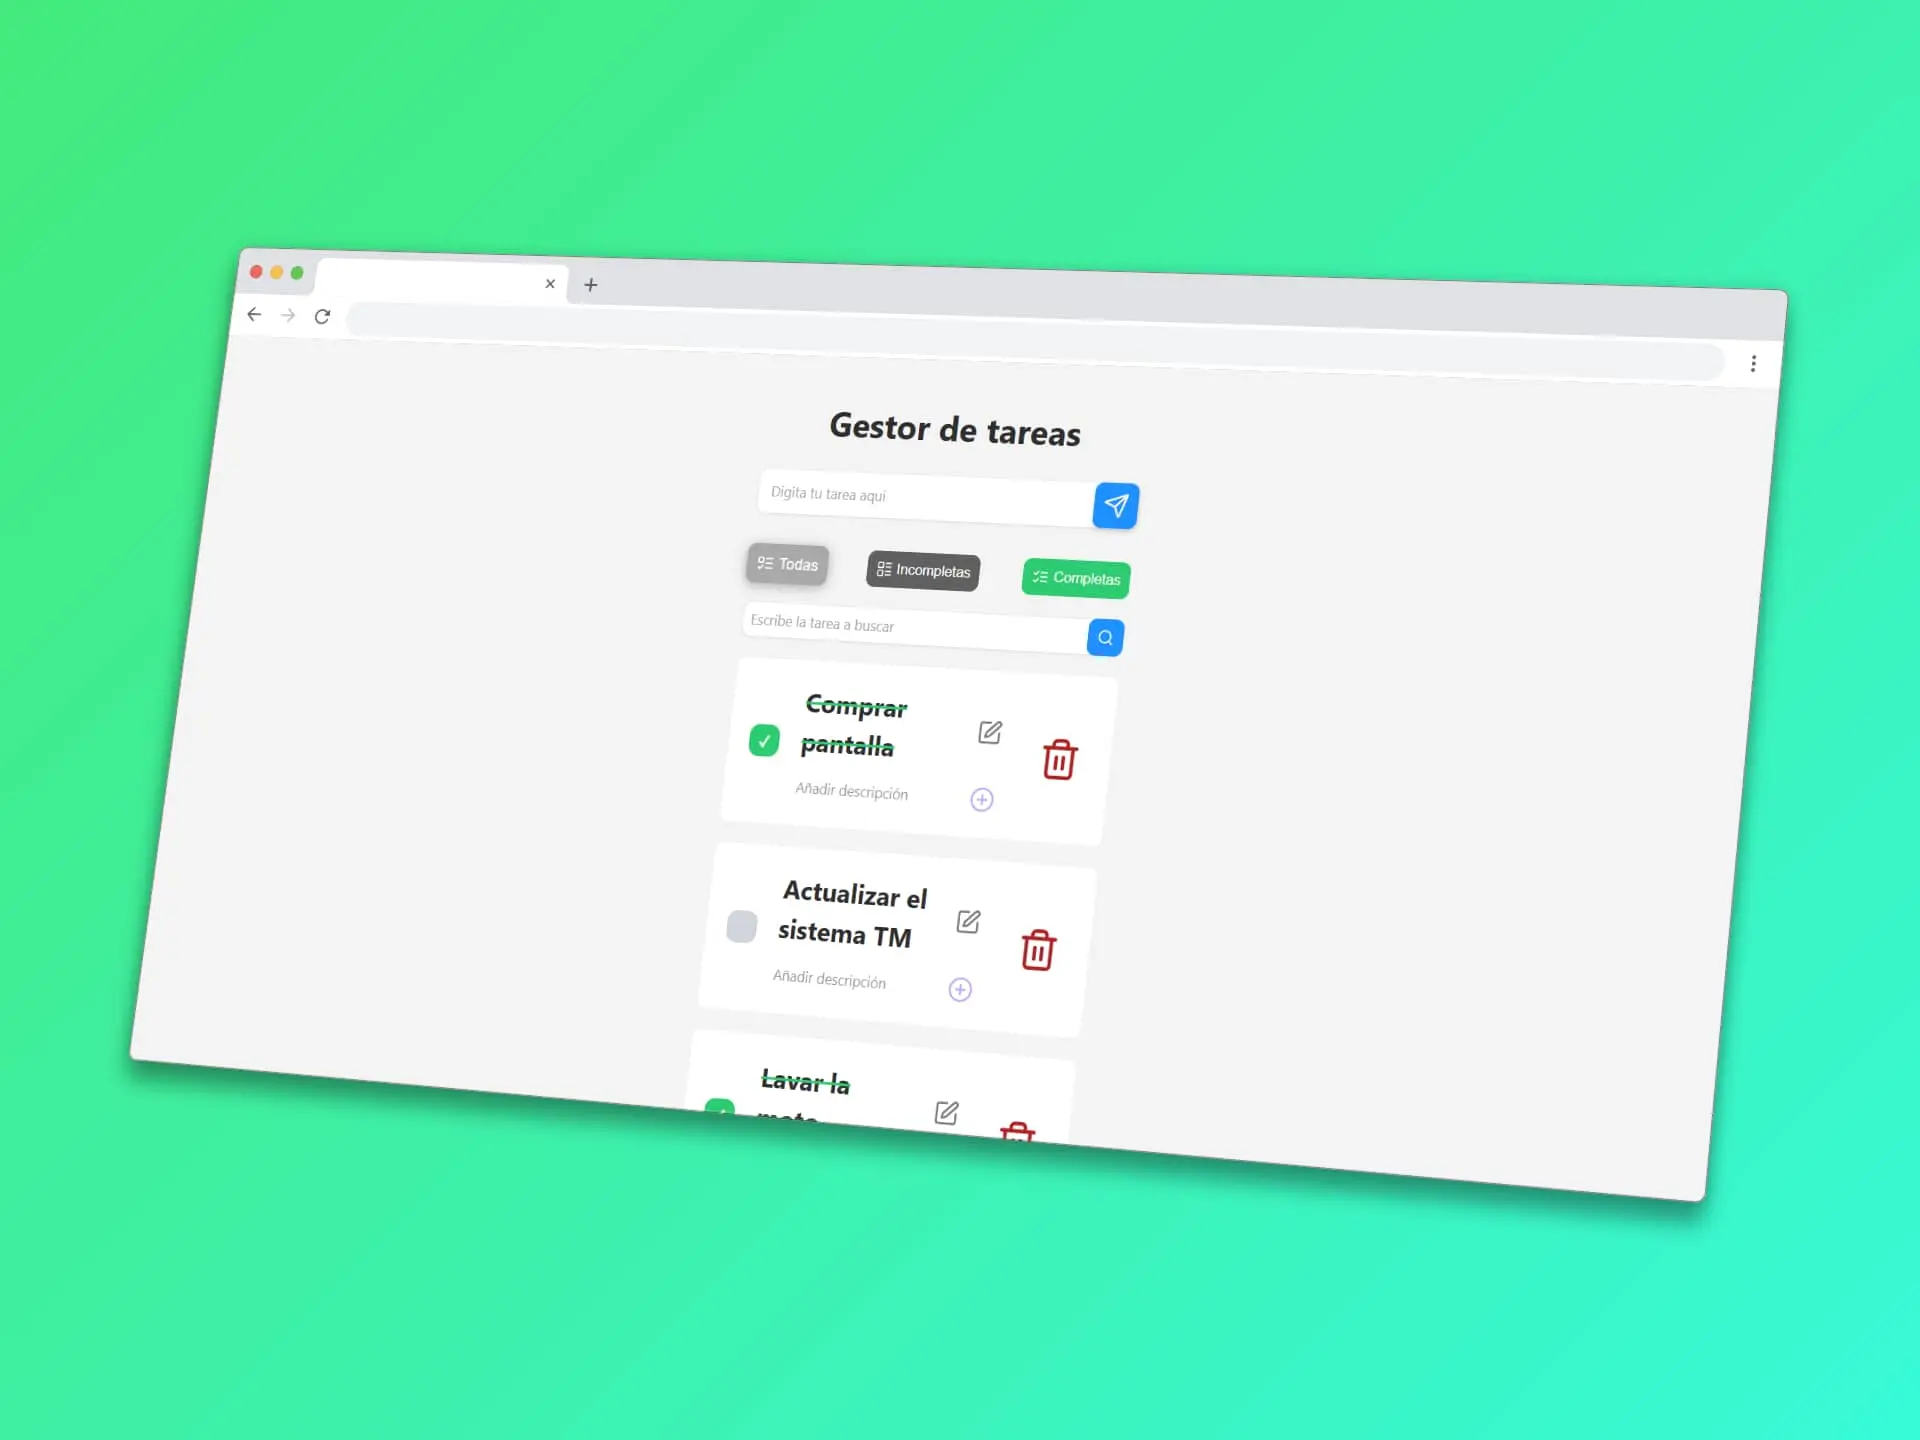
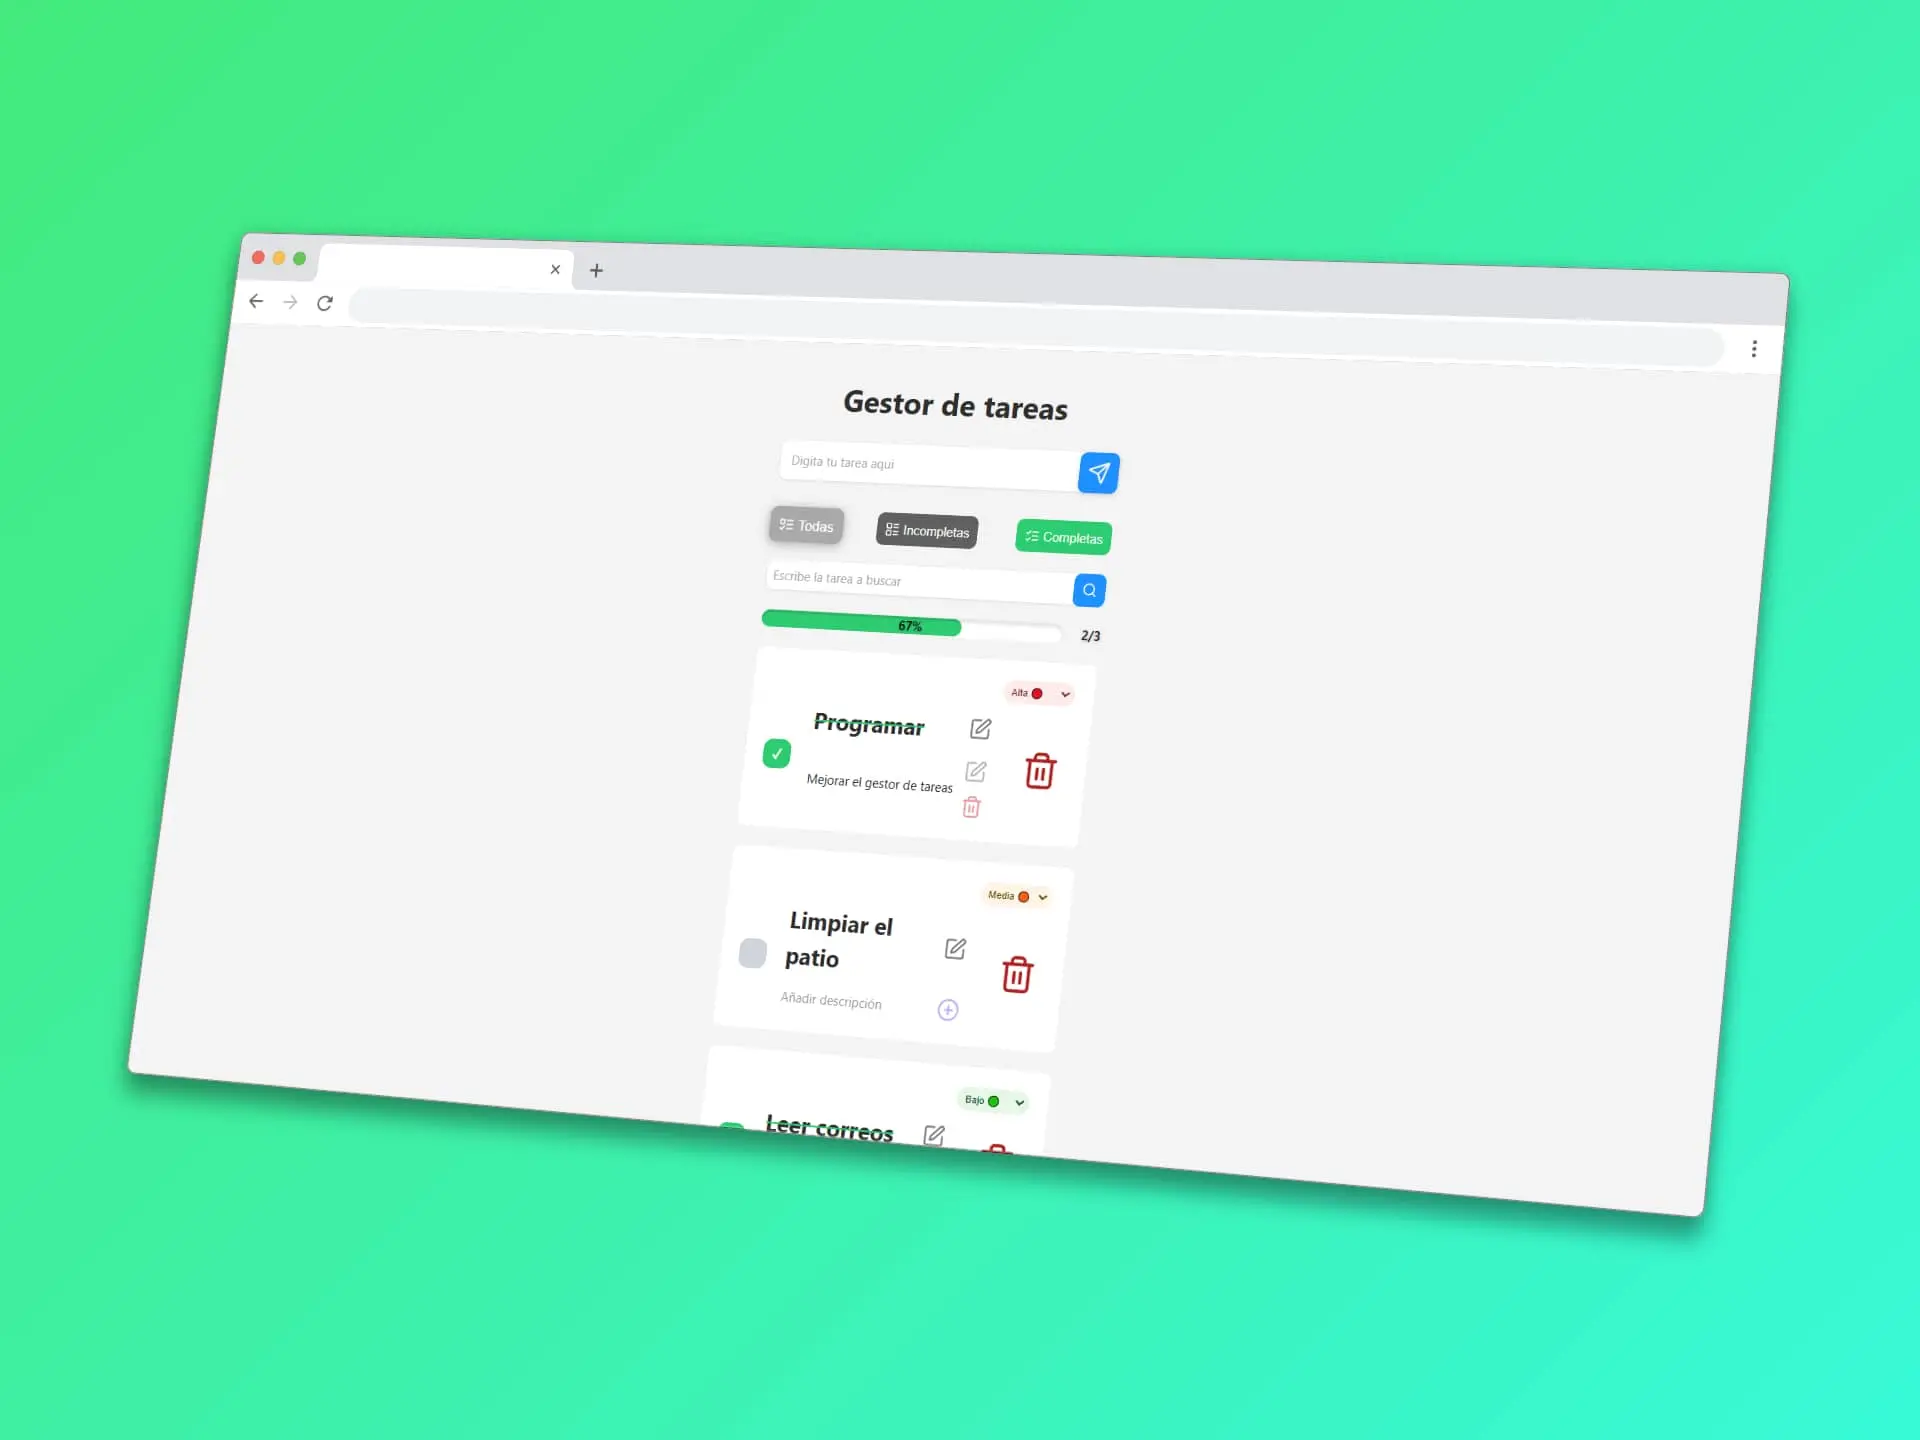
Changed the mockup, added the new features, edited the README file

diff --git a/README.md b/README.md
@@ -9,6 +9,8 @@ Esta es una aplicación web construida con ReactJS que permite gestionar tareas 
 - Agregar tareas con nombre y descripción
 - Editar nombre y descripción de tareas
 - Eliminar tareas individualmente o eliminar solo la descripción
+- Barra de progreso
+- Marcar y organizar tareas por prioridad
 - Marcar tareas como completadas
 - Filtrar tareas por estado: Todas, Completadas o Incompletas
 - Buscar tareas por nombre dentro de cada filtro
@@ -45,11 +47,9 @@ Esta es una aplicación web construida con ReactJS que permite gestionar tareas 
 
 ### 🔧 Posibles mejoras a futuro
 
-- Barra de progreso
-- Tareas con prioridad (alta, media, baja)
 - Fechas de creación y vencimiento
-- Animaciones suaves (agregado, eliminado, filtros)
-- Mejoras visuales en la UI
+- Animaciones y mejoras visuales
+
 
 ---
 
